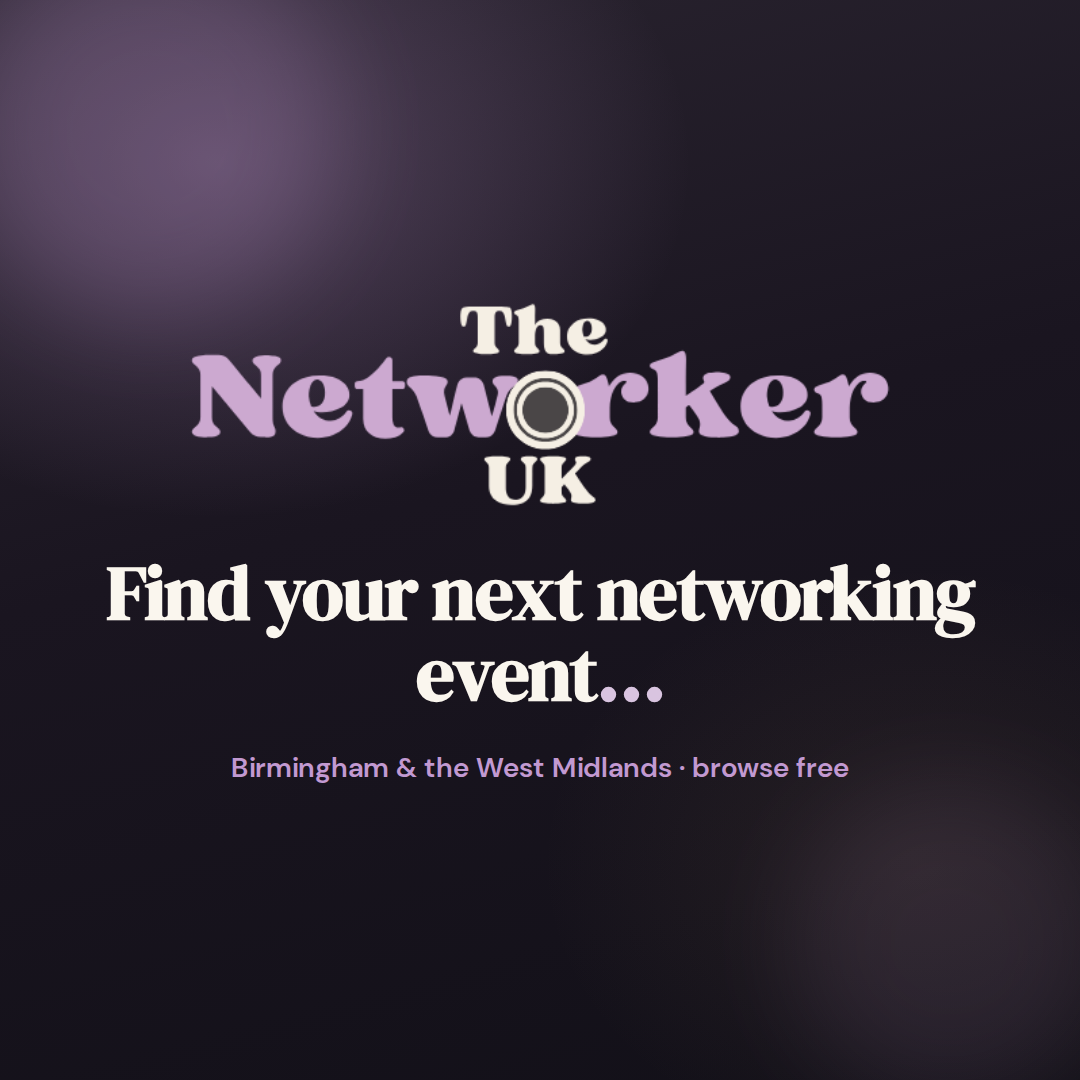
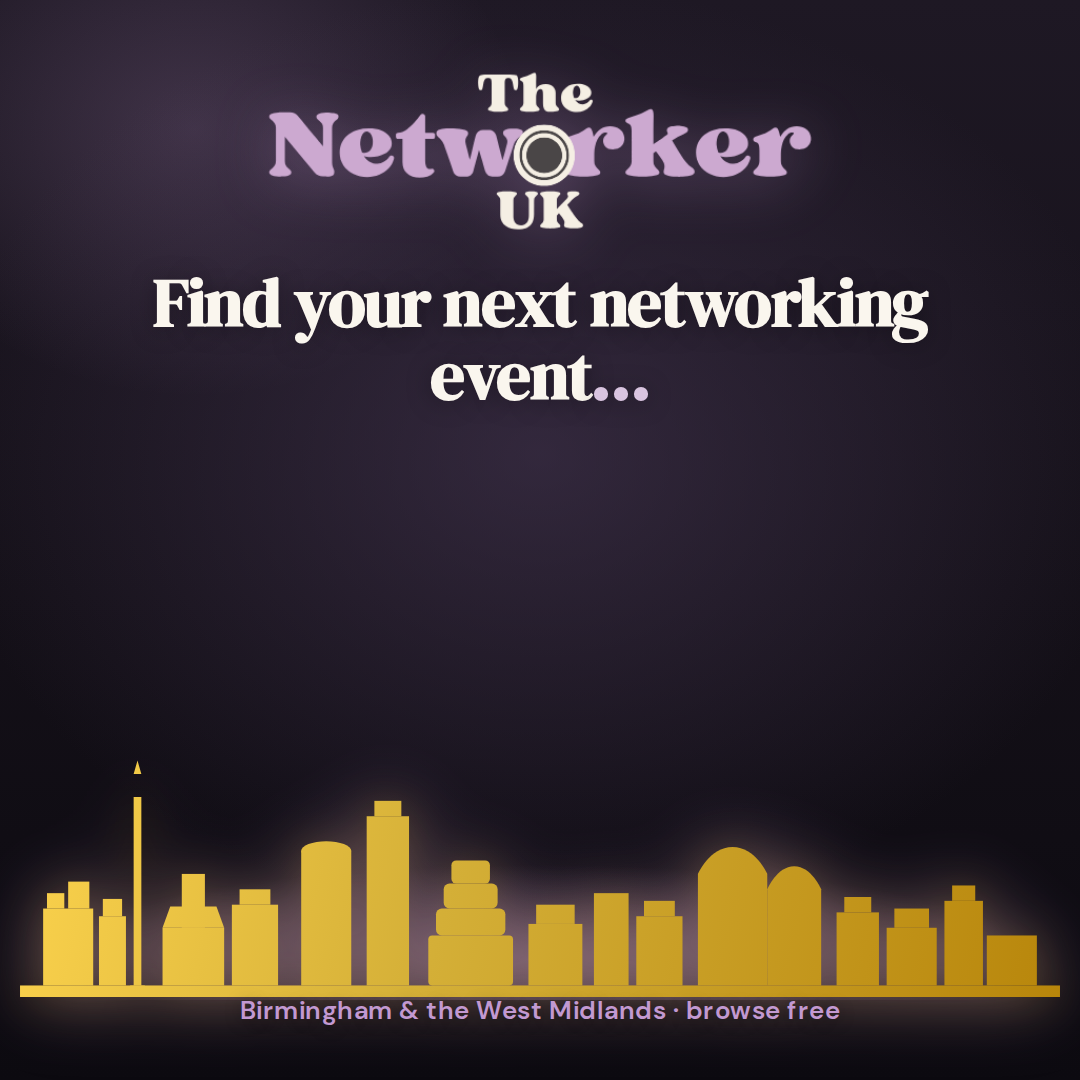
Birmingham Facebook ad: gold skyline and brand purple accents
Recreate Meta reference layout with UK wordmark, headline, gold skyline
silhouette, and lavender footer instead of pink.

diff --git a/marketing/social/facebook-ad-birmingham.html b/marketing/social/facebook-ad-birmingham.html
@@ -38,90 +38,102 @@
     overflow: hidden;
     flex-shrink: 0;
     background:
-      radial-gradient(ellipse 80% 60% at 20% 15%, rgba(194, 153, 209, 0.32), transparent 55%),
-      radial-gradient(ellipse 70% 55% at 85% 80%, rgba(184, 149, 106, 0.1), transparent 50%),
-      linear-gradient(165deg, #2a2430 0%, #1a1520 45%, #121018 100%);
+      radial-gradient(ellipse 90% 70% at 50% 42%, rgba(74, 58, 88, 0.55), transparent 62%),
+      radial-gradient(ellipse 55% 45% at 18% 12%, rgba(194, 153, 209, 0.22), transparent 55%),
+      linear-gradient(180deg, #1e1824 0%, #141018 55%, #0c0a10 100%);
     color: #faf6ee;
     display: flex;
     flex-direction: column;
     align-items: center;
-    justify-content: center;
     text-align: center;
-    padding: 80px 72px;
   }
 
-  .orb {
-    position: absolute;
-    border-radius: 50%;
-    filter: blur(48px);
-    opacity: 0.45;
-    pointer-events: none;
-  }
-
-  .orb--1 {
-    width: 380px;
-    height: 380px;
-    background: rgba(194, 153, 209, 0.4);
-    top: -60px;
-    left: -40px;
-  }
-
-  .orb--2 {
-    width: 320px;
-    height: 320px;
-    background: rgba(154, 122, 168, 0.28);
-    bottom: -20px;
-    right: -30px;
-  }
-
-  .content {
+  .upper {
     position: relative;
-    z-index: 1;
+    z-index: 2;
     display: flex;
     flex-direction: column;
     align-items: center;
-    gap: 36px;
-    max-width: 900px;
+    padding: 64px 56px 0;
+    flex: 0 0 auto;
   }
 
   .brand {
-    width: 720px;
-    max-width: 92%;
+    width: 560px;
+    max-width: 88%;
     height: auto;
     display: block;
+    filter: drop-shadow(0 8px 28px rgba(194, 153, 209, 0.35));
+    margin-bottom: 28px;
   }
 
   .headline {
     font-family: 'DM Serif Display', Georgia, serif;
-    font-size: 76px;
-    line-height: 1.06;
+    font-size: 68px;
+    line-height: 1.08;
     letter-spacing: -0.02em;
     color: #faf6ee;
+    max-width: 880px;
+    text-shadow: 0 2px 24px rgba(0, 0, 0, 0.35);
   }
 
   .headline .accent {
     color: #d9c4e0;
   }
 
+  .lower {
+    position: relative;
+    z-index: 1;
+    width: 100%;
+    margin-top: auto;
+    display: flex;
+    flex-direction: column;
+    align-items: center;
+  }
+
+  .skyline-glow {
+    position: absolute;
+    left: 50%;
+    bottom: 80px;
+    transform: translateX(-50%);
+    width: 920px;
+    height: 200px;
+    background: radial-gradient(ellipse 80% 70% at 50% 80%, rgba(194, 153, 209, 0.38), transparent 68%);
+    pointer-events: none;
+  }
+
+  .skyline {
+    width: 100%;
+    max-width: 1040px;
+    height: auto;
+    display: block;
+    margin: 0 auto -4px;
+    filter: drop-shadow(0 0 36px rgba(194, 153, 209, 0.42)) drop-shadow(0 4px 20px rgba(184, 134, 11, 0.25));
+  }
+
   .sub {
-    font-size: 28px;
+    position: relative;
+    z-index: 2;
+    font-size: 26px;
     font-weight: 600;
     line-height: 1.35;
+    letter-spacing: 0.02em;
     color: #c299d1;
-    max-width: 720px;
+    padding: 0 48px 52px;
+    text-shadow: 0 2px 16px rgba(0, 0, 0, 0.4);
   }
 </style>
 </head>
 <body>
   <div id="canvas" aria-label="The Networker UK — Birmingham Facebook ad">
-    <span class="orb orb--1" aria-hidden="true"></span>
-    <span class="orb orb--2" aria-hidden="true"></span>
-
-    <div class="content">
-      <img class="brand" src="../../assets/logo-networker-uk-cover.png" alt="The Networker UK" width="720" height="380">
-
+    <div class="upper">
+      <img class="brand" src="../../assets/logo-networker-uk-cover.png" alt="The Networker UK" width="560" height="296">
       <h1 class="headline">Find your next networking event<span class="accent">…</span></h1>
+    </div>
 
+    <div class="lower">
+      <div class="skyline-glow" aria-hidden="true"></div>
+      <img class="skyline" src="./birmingham-skyline-silhouette.svg" alt="" width="1080" height="260">
       <p class="sub">Birmingham &amp; the West Midlands · browse free</p>
     </div>
   </div>
